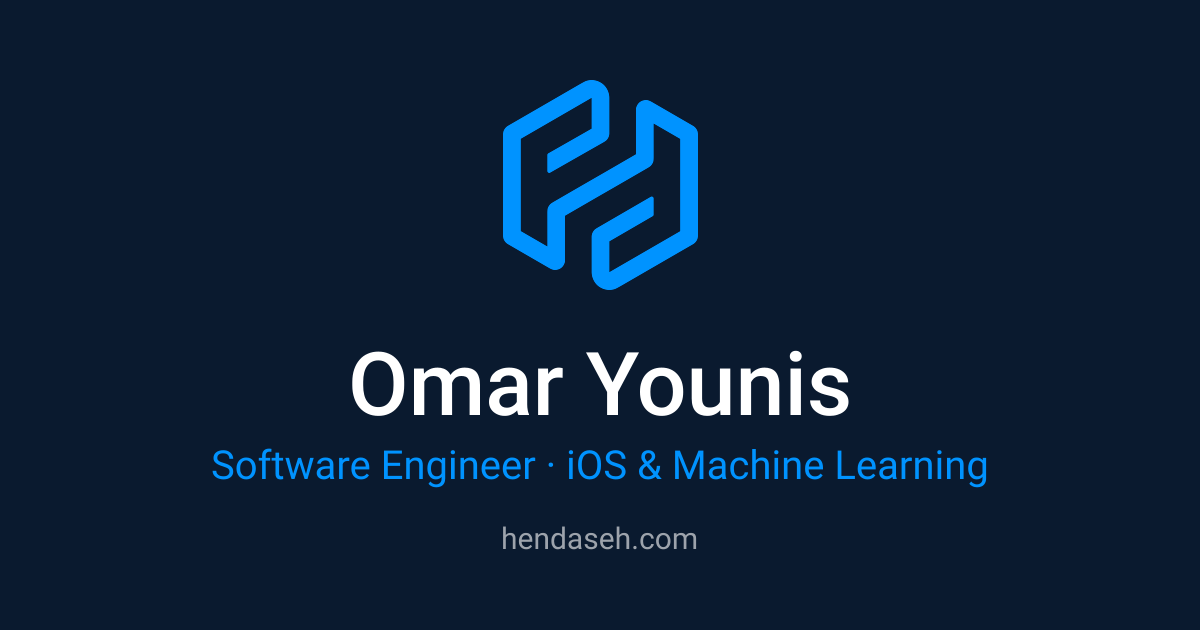
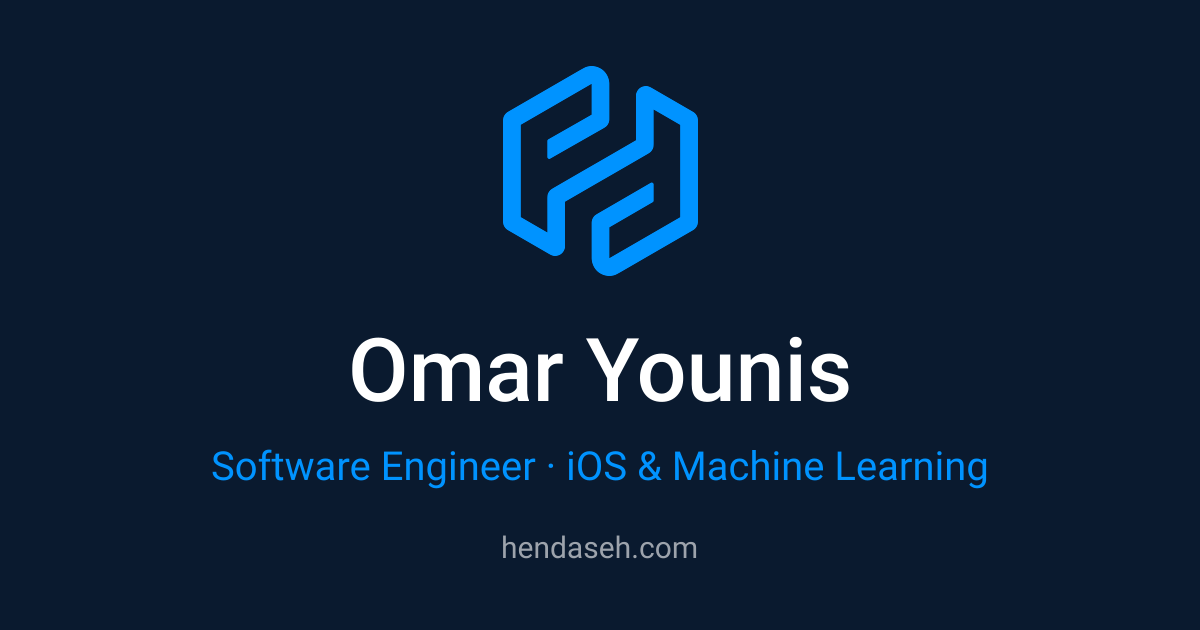
fix: harden CardTemplate against the same overlap bug BannerTemplate had
3026f78 fixed a shipped bug where a wrapping title overlapped the tagline
in BannerTemplate: flexShrink defaults to 1, so when total content
exceeds the frame, yoga shrinks a text box below its own rendered height
and the glyphs spill into whatever comes next. That fix — flexShrink: 0
on every direct child plus a 2-line WebkitLineClamp on the wrapping
text — was applied to BannerTemplate only. CardTemplate has the same
flex-column structure and no such hardening, and this branch added an
icon to project OG cards (~258px of vertical budget); measured content
now runs to ~552px inside the 630px frame, roughly one line of headroom.
Apply the identical hardening, and extend assetTemplates.test.ts with
the same wrap/no-overlap regression test used for BannerTemplate,
reproduced against a tile icon + a name long enough to wrap to three
lines. Verified the new test fails against the pre-fix template
(tagline top computed above the wrapped name's bottom) and passes after.

Investigated why public/og/*.png changed even though none of today's
four cards currently overflow: Satori's yoga layout measures a
flexShrink: 0 text box differently from the default flexShrink: 1 box
even when nothing actually needs to shrink, so the fix shifts the
vertically-centered content by a few pixels. Confirmed by isolating the
change to a single div and diffing raw SVG output — no wrapping,
clipping, or overlap is introduced, only sub-1.5%-of-frame recentering.
[…]

diff --git a/src/lib/__tests__/assetTemplates.test.ts b/src/lib/__tests__/assetTemplates.test.ts
@@ -2,7 +2,8 @@
 import { describe, it, expect } from 'vitest'
 import satori from 'satori'
 import { readFile } from 'node:fs/promises'
-import { BannerTemplate } from '../assetTemplates'
+import { BannerTemplate, CardTemplate } from '../assetTemplates'
+import type { OgCard } from '../ogCards'
 
 describe('BannerTemplate', () => {
   it('renders a 1280x640 SVG with title and footer', async () => {
@@ -22,6 +23,7 @@ describe('BannerTemplate', () => {
       ] }
     )
     expect(svg).toContain('width="1280"')
+    expect(svg).toContain('height="640"')
     // Satori (embedFont: false) emits one <text> per word, so a two-word title
     // never appears as one contiguous "Test Project" substring — assert both words.
     expect(svg).toContain('>Test<')
@@ -86,6 +88,106 @@ describe('BannerTemplate', () => {
     for (const n of nodes) {
       expect(n.y - n.size * 0.9).toBeGreaterThan(-1)
       expect(n.y + n.size * 0.3).toBeLessThan(640)
+    }
+  })
+})
+
+describe('CardTemplate', () => {
[1 lines of base64/hex data omitted]
+
+  it('renders a 1200x630 SVG with name and footer', async () => {
+    const medium = await readFile('src/fonts/roboto/Roboto-Medium.ttf')
+    const regular = await readFile('src/fonts/roboto/Roboto-Regular.ttf')
+    const card: OgCard = {
+      background: { kind: 'solid', color: '#0A1A2F' },
+      name: 'Test Project',
+      nameSize: 64,
+      footer: 'hendaseh.com',
+      textColor: '#FFFFFF',
+    }
+    const svg = await satori(CardTemplate({ card, mark: null }), {
+      width: 1200,
+      height: 630,
+      embedFont: false,
+      fonts: [
+        { name: 'Roboto', data: regular, weight: 400, style: 'normal' },
+        { name: 'Roboto', data: medium, weight: 500, style: 'normal' },
+      ],
+    })
+    expect(svg).toContain('width="1200"')
+    expect(svg).toContain('height="630"')
+    expect(svg).toContain('>Test<')
+    expect(svg).toContain('>Project<')
+    expect(svg).toContain('hendaseh.com')
+  })
+
+  // Same latent bug BannerTemplate was hardened against in commit 3026f78,
+  // reproduced here with the vertical budget this branch added: a tiled icon
+  // (~258px, per the final-review measurement) plus a wrapping name plus a
+  // tagline plus a footer — enough content that, without flexShrink: 0 on
+  // every direct child, yoga would shrink the name's box below its rendered
+  // text height and let it spill into the tagline below.
+  it('keeps the tagline below a wrapping three-line name, with no overlap, even with a tile icon', async () => {
+    const medium = await readFile('src/fonts/roboto/Roboto-Medium.ttf')
+    const regular = await readFile('src/fonts/roboto/Roboto-Regular.ttf')
+    const card: OgCard = {
+      background: { kind: 'gradient', from: '#0A1A2F', to: '#04294A' },
+      icon: { src: { project: 'test' }, tile: true },
+      name: 'An Extremely Long Showcase Project Title That Wraps Across Three Full Lines',
+      nameSize: 64,
+      tagline: 'A tagline that must not be overlapped',
+      footer: 'hendaseh.com',
+      textColor: '#FFFFFF',
+    }
+    const svg = await satori(
+      CardTemplate({ card, mark: { src: onePx, width: 1, height: 1 } }),
+      {
+        width: 1200,
+        height: 630,
+        embedFont: false,
+        fonts: [
+          { name: 'Roboto', data: regular, weight: 400, style: 'normal' },
+          { name: 'Roboto', data: medium, weight: 500, style: 'normal' },
+        ],
+      }
+    )
+
+    // With embedFont: false, Satori emits one <text x="…" y="…" font-size="…">
+    // element per word/space, where y is that line's baseline.
+    const nodes = [...svg.matchAll(/<text[^>]*\sy="([\d.]+)"[^>]*\sfont-size="(\d+)"[^>]*>/g)].map((m) => ({
+      y: Number(m[1]),
+      size: Number(m[2]),
+    }))
+    expect(nodes.length).toBeGreaterThan(0)
+
+    // The card has exactly two type sizes here: name, tagline (footer has a
+    // third, smaller size too — classify by relative size, largest to
+    // smallest).
+    const sizes = [...new Set(nodes.map((n) => n.size))].sort((a, b) => b - a)
+    expect(sizes.length).toBe(3)
+    const [nameSize, taglineSize] = sizes
+
+    const nameYs = nodes.filter((n) => n.size === nameSize).map((n) => n.y)
+    const taglineYs = nodes.filter((n) => n.size === taglineSize).map((n) => n.y)
+
+    // Sanity check that this name actually wrapped to (at least) two lines —
+    // the WebkitLineClamp caps it at 2 — so the test exercises real content
+    // pressure rather than trivially passing on one line.
+    expect(new Set(nameYs).size).toBeGreaterThanOrEqual(2)
+
+    const lastNameLineY = Math.max(...nameYs)
+    const taglineY = Math.min(...taglineYs)
+
+    // No overlap: the tagline's own ascent must clear the last name line's
+    // descent. Same generous (safe-upper-bound) fractions as the banner test.
+    const nameLineBottom = lastNameLineY + nameSize * 0.3
+    const taglineTop = taglineY - taglineSize * 0.9
+    expect(taglineTop).toBeGreaterThan(nameLineBottom)
+
+    // Nothing renders outside the 1200x630 frame.
+    for (const n of nodes) {
+      expect(n.y - n.size * 0.9).toBeGreaterThan(-1)
+      expect(n.y + n.size * 0.3).toBeLessThan(630)
     }
   })
 })

diff --git a/src/lib/assetTemplates.tsx b/src/lib/assetTemplates.tsx
@@ -86,6 +86,23 @@ function fitWithin(mark: Mark, maxW: number, maxH: number) {
   return { width: Math.round(mark.width * scale), height: Math.round(mark.height * scale) };
 }
 
+/**
+ * Vertical budget note (same failure mode `BannerTemplate` was hardened
+ * against in commit `3026f78`): the outer container is `flexDirection:
+ * column` with `justifyContent: center`. Every direct child below is
+ * `flexShrink: 0` — without it, a flex child's default `flexShrink: 1` lets
+ * the box get squeezed *below* its own text's rendered height whenever total
+ * content exceeds the 630px frame, and the glyphs (rendered at full size
+ * regardless) spill out of the shrunk box into whatever comes next, which is
+ * exactly how a wrapping title once overlapped the tagline. This template
+ * added an icon (~258px of vertical budget) after that fix shipped, so it
+ * carries the same latent bug until hardened the same way. The name is
+ * additionally clamped to 2 lines (`WebkitLineClamp` + `textOverflow:
+ * 'ellipsis'`, which Satori honors only together with `display:
+ * '-webkit-box'` / `WebkitBoxOrient: 'vertical'`) so a future name longer
+ * than any in the catalog degrades to an ellipsis instead of reintroducing
+ * overlap.
+ */
 export function CardTemplate({ card, mark }: { card: OgCard; mark: Mark | null }) {
   const background =
     card.background.kind === 'solid'
@@ -112,6 +129,7 @@ export function CardTemplate({ card, mark }: { card: OgCard; mark: Mark | null }
             display: 'flex',
             alignItems: 'center',
             justifyContent: 'center',
+            flexShrink: 0,
             width: '260px',
             height: '260px',
             backgroundColor: '#FFFFFF',
@@ -127,12 +145,26 @@ export function CardTemplate({ card, mark }: { card: OgCard; mark: Mark | null }
       ) : (
         (() => {
           const { width, height } = fitWithin(mark, 230, 210);
-          return <img src={mark.src} width={width} height={height} alt="" style={{ marginBottom: '48px' }} />;
+          return (
+            <img
+              src={mark.src}
+              width={width}
+              height={height}
+              alt=""
+              style={{ flexShrink: 0, marginBottom: '48px' }}
+            />
+          );
         })()
       ))}
 
       <div
         style={{
+          display: '-webkit-box',
+          WebkitBoxOrient: 'vertical',
+          WebkitLineClamp: 2,
+          overflow: 'hidden',
+          textOverflow: 'ellipsis',
+          flexShrink: 0,
           maxWidth: '1040px',
           fontSize: `${card.nameSize}px`,
           fontWeight: 500,
@@ -147,6 +179,7 @@ export function CardTemplate({ card, mark }: { card: OgCard; mark: Mark | null }
       {card.tagline && (
         <div
           style={{
+            flexShrink: 0,
             marginTop: '26px',
             fontSize: '40px',
             fontWeight: 400,
@@ -161,6 +194,7 @@ export function CardTemplate({ card, mark }: { card: OgCard; mark: Mark | null }
       {card.footer && (
         <div
           style={{
+            flexShrink: 0,
             marginTop: '40px',
             fontSize: '30px',
             fontWeight: 400,
